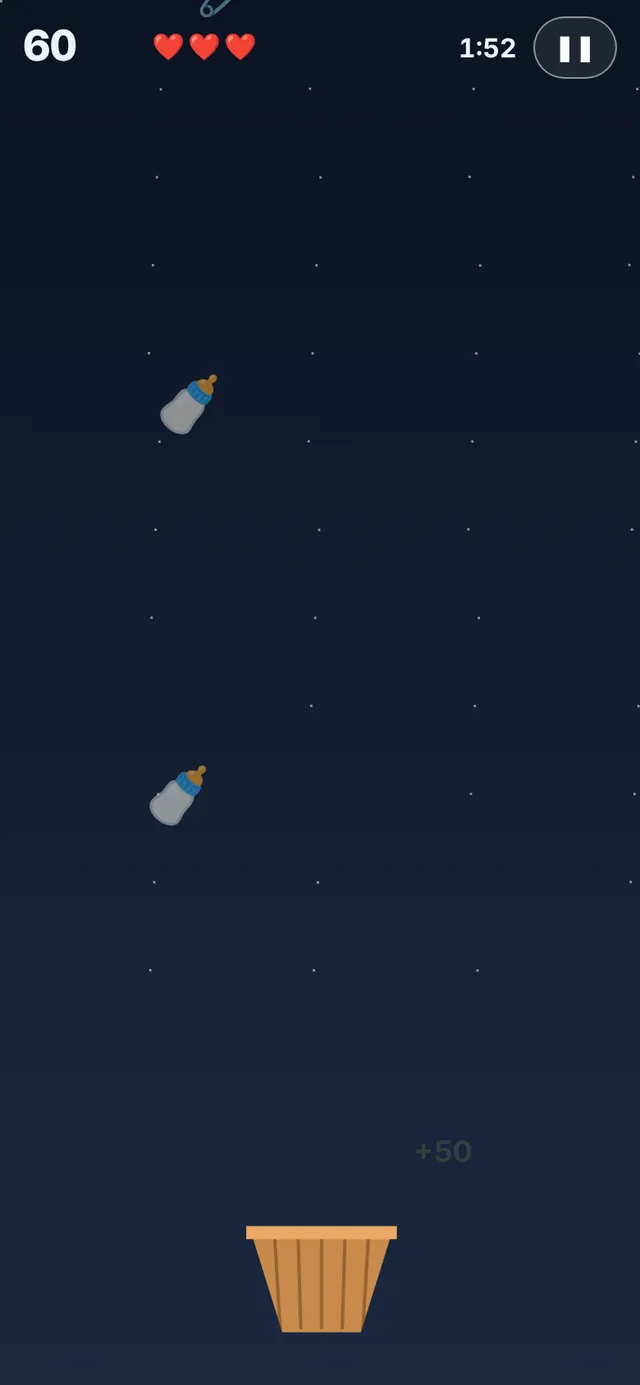
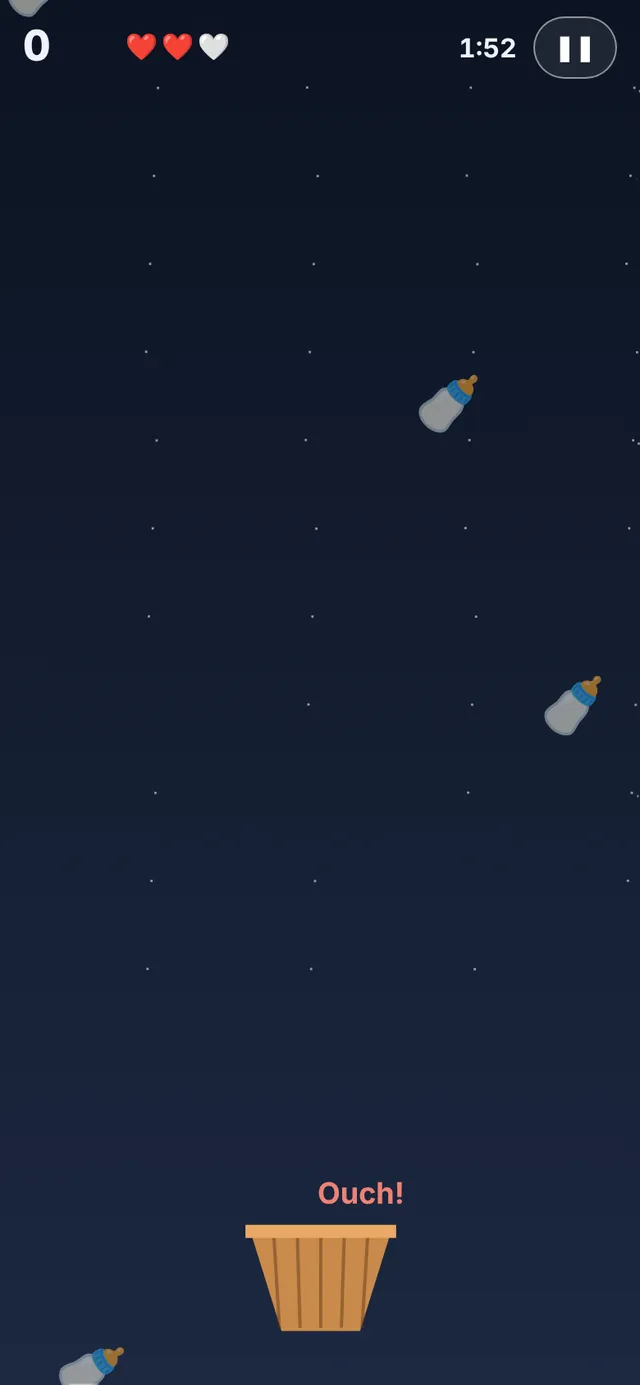
Overview: only real app screenshots
- The made-up 24-hour feed clock and the diaper-goal chart are removed
- New "Patterns at a glance": the Dashboard's Feeding rhythm chart (a real
  screenshot) and the list of charts in the app, plus the doctor report
- Diaper goals explained in the Diapers feature card (one on the birth day,
  rising through Day 5, then your own goal)
- to_webp.py only writes screenshots the overview or README use

Claude-Session: https://claude.ai/code/session_01C2LP9XX3HMhgrsmSLqk1xr

diff --git a/docs/overview.html b/docs/overview.html
@@ -9,7 +9,7 @@
 <link rel="stylesheet" href="https://fonts.googleapis.com/css2?family=Bricolage+Grotesque:opsz,wght@12..96,500;12..96,700;12..96,800&family=Figtree:wght@400;500;600;700&family=JetBrains+Mono:wght@500;700&display=swap">
 <style>
 /* Layout: a warm daytime page that settles into a night-blue band (Night shift, Calm), then returns to day.
-   The signature piece is a 24-hour feed clock for one example day. Colors come from the app itself. */
+   Every picture is a real screenshot from the app, with example data. Colors come from the app itself. */
 :root{
   --bg:#f6f1ea; --panel:#fffaf4; --panel2:#efe6da; --ink:#2b2420; --muted:#76685d; --line:#e4d8ca;
   --accent:#d0683a; --accent-ink:#b5532a; --accent-soft:#f6dccd;
@@ -86,15 +86,12 @@ a:focus-visible,button:focus-visible{outline:3px solid var(--accent); outline-of
 .tag{display:inline-flex; align-items:center; gap:6px; padding:6px 10px; border-radius:10px; background:var(--panel2); font-weight:600}
 .tag.b{color:var(--bottle)} .tag.p{color:var(--pump)} .tag.w{color:var(--wet)} .tag.s{color:var(--stool)} .tag.a{color:var(--accent-ink)} .tag.v{color:var(--sun)}
 
-/* feed clock */
-.clock-grid{display:grid; grid-template-columns:minmax(0,1fr) minmax(0,1fr); gap:clamp(28px,5vw,64px); align-items:center}
-.clock{width:100%; max-width:520px; justify-self:center}
-.clock svg{width:100%; height:auto; display:block}
-.stats{display:grid; grid-template-columns:repeat(2,minmax(0,1fr)); gap:1px; background:var(--line); border:1px solid var(--line); border-radius:18px; overflow:hidden}
-.stat{background:var(--panel); padding:18px 20px; display:grid; gap:4px}
-.stat .v{font:800 34px/1 var(--display); letter-spacing:-.02em; font-variant-numeric:tabular-nums}
-.stat .v small{font:600 15px var(--body); color:var(--muted); margin-left:3px}
-.stat .k{font-size:13px; color:var(--muted)}
+/* patterns (the Dashboard's charts) */
+.pat-grid{display:grid; grid-template-columns:auto minmax(0,1fr); gap:clamp(28px,5vw,72px); align-items:center}
+.pat-phone{--w:clamp(220px,24vw,300px)}
+.pat-list{list-style:none; margin:0; padding:0; display:grid; grid-template-columns:repeat(2,minmax(0,1fr)); gap:12px}
+.pat-list li{background:var(--panel); border:1px solid var(--line); border-radius:14px; padding:12px 14px; color:var(--muted); font-size:14px}
+.pat-list b{display:block; color:var(--ink); font-size:15px; font-weight:600; margin-bottom:2px}
 .legend{display:flex; flex-wrap:wrap; gap:8px 16px; margin-top:16px; font-size:13px; color:var(--muted)}
 .legend span{display:inline-flex; align-items:center; gap:7px}
 .legend i{width:12px; height:12px; border-radius:3px; display:inline-block}
@@ -136,11 +133,6 @@ a:focus-visible,button:focus-visible{outline:3px solid var(--accent); outline-of
 .sounds{display:flex; flex-wrap:wrap; gap:8px; margin-top:20px}
 .sounds span{font:600 13px/1 var(--body); padding:9px 13px; border-radius:999px; border:1px solid var(--night-line); color:var(--night-ink)}
 
-/* goals chart */
-.goal-grid{display:grid; grid-template-columns:minmax(0,1fr) minmax(0,1.1fr); gap:clamp(28px,5vw,64px); align-items:center}
-.chart{background:var(--panel); border:1px solid var(--line); border-radius:20px; padding:22px 20px 16px}
-.chart svg{width:100%; height:auto; display:block}
-
 /* family */
 .family-grid{display:grid; grid-template-columns:minmax(0,1fr) minmax(0,1fr); gap:clamp(28px,5vw,64px); align-items:center}
 .key{display:inline-flex; align-items:center; gap:14px; margin-top:22px; padding:14px 18px; border-radius:16px; background:var(--panel); border:1.5px dashed var(--accent)}
@@ -180,7 +172,8 @@ footer .wrap{display:flex; flex-wrap:wrap; gap:12px 28px; justify-content:space-
 footer code{font-family:var(--mono); font-size:13px}
 
 @media (max-width:900px){
-  .hero-grid,.clock-grid,.night-grid,.goal-grid,.family-grid{grid-template-columns:minmax(0,1fr)}
+  .hero-grid,.pat-grid,.night-grid,.family-grid{grid-template-columns:minmax(0,1fr)}
+  .pat-phone{justify-self:center}
   .screens{grid-template-columns:repeat(2,minmax(0,1fr))}
   .facts{grid-template-columns:repeat(2,minmax(0,1fr))}
   .fine{grid-template-columns:minmax(0,1fr)}
@@ -194,7 +187,6 @@ footer code{font-family:var(--mono); font-size:13px}
   .fan .phone{--w:150px}
   .fan .p1{transform:translateX(-62%) rotate(-7deg) translateY(14px)}
   .fan .p3{transform:translateX(62%) rotate(7deg) translateY(14px)}
-  .stats{grid-template-columns:minmax(0,1fr) minmax(0,1fr)}
   .family-shots .phone{--w:44vw}
   .palettes .phone{--w:28vw}
   .themes{grid-template-columns:repeat(2,auto)}
@@ -239,7 +231,7 @@ footer code{font-family:var(--mono); font-size:13px}
   </div>
   <div class="feats">
     <div class="feat"><span class="fi">🍼</span><h3>Feeds, your way</h3><p>Breast with a timer and which side to start on, bottles in mL, and pumping, alone or together. Triple feeding fits on one row.</p></div>
-    <div class="feat"><span class="fi">🧷</span><h3>Diapers with goals</h3><p>Wet and stool on each feed or on their own, with daily goals that grow with your baby's day of life.</p></div>
+    <div class="feat"><span class="fi">🧷</span><h3>Diapers with goals</h3><p>Wet and stool on each feed or on their own. Daily goals follow your baby's day of life: one each on the birth day, rising through Day 5, then your own goal.</p></div>
     <div class="feat"><span class="fi">⚖</span><h3>Weight and growth</h3><p>Visit weights and weighted feeds in grams or lb and oz, charted against birth weight.</p></div>
     <div class="feat"><span class="fi">☀</span><h3>Vitamin D and baths</h3><p>A daily Vitamin D check with streaks, and sponge or tub baths with a note.</p></div>
     <div class="feat"><span class="fi">🌙</span><h3>Night shift</h3><p>A dim screen with huge buttons for one-handed feeds in the dark, in warm, moonlight, or red colors.</p></div>
@@ -250,24 +242,23 @@ footer code{font-family:var(--mono); font-size:13px}
   </div>
 </section>
 
-<section class="wrap" id="day" style="padding-top:0">
-  <div class="clock-grid">
-    <div class="clock" id="clock" aria-label="24-hour clock of the example day's feeds"></div>
+<section class="wrap" id="patterns" style="padding-top:0">
+  <div class="pat-grid">
+    <div class="phone pat-phone"><img src="screenshots/rhythm.webp" alt="The Dashboard's Feeding rhythm chart, enlarged, with one day's details: feeds, bottle, pumped, diapers, Vitamin D, gaps, and nursing time"></div>
     <div>
-      <div class="sec-head" style="margin-bottom:28px">
-        <p class="eyebrow">One day, at a glance</p>
-        <h2>Day 11, around the clock.</h2>
-        <p class="lede">Each feed gets two bars on the same scale: the bottle top-up and what was pumped. Dots outside the ring mark diapers. The shaded part is night, 8pm to 6am.</p>
+      <div class="sec-head" style="margin-bottom:24px">
+        <p class="eyebrow">Patterns at a glance</p>
+        <h2>The answers to the pediatrician's questions.</h2>
+        <p class="lede">Every chart on the Dashboard opens big. Tap a day or a single feed to see everything about it: feeds, bottle and pumped totals, diapers against the goals, Vitamin D, the longest stretch, and nursing time on each side.</p>
       </div>
-      <div class="stats" id="stats"></div>
-      <div class="legend">
-        <span><i style="background:var(--bottle)"></i>Bottle mL</span>
-        <span><i style="background:var(--pump)"></i>Pumped mL</span>
-        <span><i style="background:var(--wet);border-radius:50%"></i>Wet</span>
-        <span><i style="background:var(--stool);border-radius:50%"></i>Stool</span>
-        <span><i style="background:var(--sun);border-radius:50%"></i>Vitamin D</span>
-      </div>
-      <p class="note">Example data for a made-up baby, Juniper. Goals shown are Cradle's defaults, not medical guidance.</p>
+      <ul class="pat-list">
+        <li><b>This day by feed</b>each bottle and pump, with your per-feed target</li>
+        <li><b>Daily volume</b>bottle and pumped totals, day by day</li>
+        <li><b>Daily diapers</b>wet and stool against the day-of-life goals</li>
+        <li><b>Longest stretch</b>the biggest gap between feeds each day</li>
+        <li><b>Feeding rhythm</b>when feeds happen across the week</li>
+        <li><b>🩺 Doctor report</b>all of it on one printable page</li>
+      </ul>
     </div>
   </div>
 </section>
@@ -323,17 +314,6 @@ footer code{font-family:var(--mono); font-size:13px}
         <div class="sounds"><span>Spa music</span><span>Ocean</span><span>Rain</span><span>White noise</span></div>
       </div>
     </div>
-  </div>
-</section>
-
-<section class="wrap" id="goals">
-  <div class="goal-grid">
-    <div class="sec-head" style="margin-bottom:0">
-      <p class="eyebrow">Goals that grow with the baby</p>
-      <h2>Diaper goals follow the day of life.</h2>
-      <p class="lede">The birth day counts as Day 0. Goals climb one a day through Day 5, then hold at four of each. Every number can be changed in Settings to match what your care team tells you.</p>
-    </div>
-    <div class="chart" id="goalChart" aria-label="Chart of daily wet and stool diaper goals by day of life"></div>
   </div>
 </section>
 
@@ -455,66 +435,10 @@ footer code{font-family:var(--mono); font-size:13px}
 
 <script>
 (function(){
-  // Example day: Day 11 for the made-up baby in the screenshots
-  const feeds=[{"t":"01:50","s":"L","m":28,"b":49,"p":75,"w":true,"st":true,"v":false},{"t":"04:35","s":"L+R","m":22,"b":50,"p":70,"w":true,"st":false,"v":false},{"t":"07:05","s":"L+R","m":28,"b":49,"p":75,"w":false,"st":true,"v":true},{"t":"09:35","s":"L+R","m":12,"b":44,"p":70,"w":true,"st":true,"v":false},{"t":"12:05","s":"L","m":15,"b":44,"p":70,"w":true,"st":false,"v":false},{"t":"14:35","s":"L+R","m":18,"b":50,"p":70,"w":true,"st":false,"v":false},{"t":"17:45","s":"L+R","m":22,"b":49,"p":60,"w":true,"st":false,"v":false},{"t":"20:30","s":"L+R","m":15,"b":49,"p":70,"w":false,"st":true,"v":false},{"t":"23:50","s":"L+R","m":28,"b":49,"p":70,"w":false,"st":true,"v":false}];
   const NS='http://www.w3.org/2000/svg';
   const el=(n,a,p)=>{const e=document.createElementNS(NS,n);for(const k in a)e.setAttribute(k,a[k]);if(p)p.appendChild(e);return e};
   const mins=t=>{const[h,m]=t.split(':').map(Number);return h*60+m};
   const fmt=m=>{let h=Math.floor(m/60)%24,mm=m%60,ap=h<12?'am':'pm';h=h%12||12;return h+(mm?':'+String(mm).padStart(2,'0'):'')+ap};
-
-  // ---- 24-hour feed clock
-  const S=520,C=S/2,R0=92,RB=196,svg=el('svg',{viewBox:`0 0 ${S} ${S}`,role:'img'});
-  const ang=m=>(m/1440)*Math.PI*2-Math.PI/2, pt=(m,r)=>[C+r*Math.cos(ang(m)),C+r*Math.sin(ang(m))];
-  const arc=(m1,m2,r1,r2)=>{const [a,b]=pt(m1,r2),[c,d]=pt(m2,r2),[e,f]=pt(m2,r1),[g,h]=pt(m1,r1),L=(m2-m1)>720?1:0;
-    return `M${a} ${b}A${r2} ${r2} 0 ${L} 1 ${c} ${d}L${e} ${f}A${r1} ${r1} 0 ${L} 0 ${g} ${h}Z`};
-  el('circle',{cx:C,cy:C,r:228,fill:'var(--panel)',stroke:'var(--line)'},svg);
-  // night shading 8pm to 6am
-  el('path',{d:arc(1200,1440,R0-8,226),fill:'var(--night)',opacity:.1},svg);
-  el('path',{d:arc(0,360,R0-8,226),fill:'var(--night)',opacity:.1},svg);
-  // one mL scale for bottle and pump; rings at 40 and 80 mL
-  const scale=v=>R0+(RB-R0)*(v/80);
-  [40,80].forEach(v=>{el('circle',{cx:C,cy:C,r:scale(v),fill:'none',stroke:'var(--line)','stroke-dasharray':'3 5'},svg);
-    const[x,y]=pt(1440*0.125,scale(v));const t=el('text',{x:x+4,y:y-4,'font-size':10,fill:'var(--muted)','font-family':'JetBrains Mono, monospace'},svg);t.textContent=v+' mL'});
-  // hour ticks + labels
-  for(let h=0;h<24;h++){const m=h*60,[x1,y1]=pt(m,222),[x2,y2]=pt(m,h%6?216:208);el('line',{x1,y1,x2,y2,stroke:'var(--muted)','stroke-width':h%6?1:2,opacity:h%6?.5:.9},svg);
-    if(h%3===0){const[x,y]=pt(m,R0-24);const t=el('text',{x,y,'text-anchor':'middle','dominant-baseline':'central','font-size':h%6?11:13,'font-weight':h%6?500:700,fill:'var(--muted)','font-family':'Figtree, system-ui, sans-serif'},svg);t.textContent=h===0?'12am':h===12?'12pm':(h%12)+(h<12?'a':'p')}}
-  // feeds
-  feeds.forEach(f=>{const m=mins(f.t);
-    const bar=(mm,v,c)=>{const[x1,y1]=pt(mm,R0),[x2,y2]=pt(mm,scale(v));el('line',{x1,y1,x2,y2,stroke:c,'stroke-width':7,'stroke-linecap':'round'},svg)};
-    bar(m-9,f.b,'var(--bottle)');bar(m+9,f.p,'var(--pump)');
-    let r=RB+16;
-    if(f.w){const[x,y]=pt(m-12,r);el('circle',{cx:x,cy:y,r:5,fill:'var(--wet)'},svg)}
-    if(f.st){const[x,y]=pt(m+12,r);el('circle',{cx:x,cy:y,r:5,fill:'var(--stool)'},svg)}
-    if(f.v){const[x,y]=pt(m,R0-48);el('circle',{cx:x,cy:y,r:6,fill:'var(--sun)'},svg)}
-    const tt=el('title',{},svg);tt.textContent=`${fmt(m)}: ${f.s}, ${f.m} min, bottle ${f.b} mL, pumped ${f.p} mL`;
-  });
-  // center
-  el('circle',{cx:C,cy:C,r:R0-44,fill:'var(--bg)',stroke:'var(--line)'},svg);
-  const t1=el('text',{x:C,y:C-6,'text-anchor':'middle','font-size':44,'font-weight':800,fill:'var(--ink)','font-family':'Bricolage Grotesque, system-ui, sans-serif'},svg);t1.textContent=feeds.length;
-  const t2=el('text',{x:C,y:C+20,'text-anchor':'middle','font-size':13,fill:'var(--muted)','font-family':'Figtree, system-ui, sans-serif'},svg);t2.textContent='feeds';
-  document.getElementById('clock').appendChild(svg);
-
-  // ---- stats, computed from the same data
-  const sum=k=>feeds.reduce((a,f)=>a+(typeof f[k]==='number'?f[k]:(f[k]?1:0)),0);
-  const ts=feeds.map(f=>mins(f.t));let longest=0,lf='';for(let i=1;i<ts.length;i++){const g=ts[i]-ts[i-1];if(g>longest){longest=g;lf=fmt(ts[i-1])+' to '+fmt(ts[i])}}
-  const avgGap=Math.round((ts[ts.length-1]-ts[0])/(ts.length-1));
-  const hm=m=>Math.floor(m/60)+'h '+String(m%60).padStart(2,'0')+'m';
-  const stats=[[sum('b'),'mL','bottle top-ups'],[sum('p'),'mL','pumped'],[sum('w')+' / '+sum('st'),'','wet / stool (goal 4 / 4)'],[hm(avgGap),'','average time between feeds'],[hm(longest),'','longest stretch, '+lf],[Math.round(sum('m')/60*10)/10,'h','nursing, Vitamin D at '+fmt(mins(feeds.find(f=>f.v).t))]];
-  document.getElementById('stats').innerHTML=stats.map(([v,u,k])=>`<div class="stat"><span class="v">${v}${u?`<small>${u}</small>`:''}</span><span class="k">${k}</span></div>`).join('');
-
-  // ---- diaper goal chart (Day 0 = 1, days 1-5 = day number, then 4)
-  const goal=d=>d===0?1:(d<=5?d:4), days=[0,1,2,3,4,5,6,7,8,9];
-  const W=560,H=260,L=36,B=36,T=18,Rr=10,bw=(W-L-Rr)/days.length,ys=v=>H-B-(v/5)*(H-B-T);
-  const g=el('svg',{viewBox:`0 0 ${W} ${H}`,role:'img'});
-  [0,1,2,3,4,5].forEach(v=>{el('line',{x1:L,x2:W-Rr,y1:ys(v),y2:ys(v),stroke:'var(--line)'},g);const t=el('text',{x:L-10,y:ys(v),'text-anchor':'end','dominant-baseline':'central','font-size':12,fill:'var(--muted)','font-family':'JetBrains Mono, monospace'},g);t.textContent=v});
-  days.forEach((d,i)=>{const x=L+i*bw,v=goal(d),w=(bw-10)/2;
-    el('rect',{x:x+4,y:ys(v),width:w,height:ys(0)-ys(v),rx:4,fill:'var(--wet)'},g);
-    el('rect',{x:x+6+w,y:ys(v),width:w,height:ys(0)-ys(v),rx:4,fill:'var(--stool)'},g);
-    const t=el('text',{x:x+bw/2,y:H-B+20,'text-anchor':'middle','font-size':12,fill:d===0?'var(--accent-ink)':'var(--muted)','font-weight':d===0?700:500,'font-family':'Figtree, system-ui, sans-serif'},g);t.textContent=d===0?'Day 0':d;
-    const tl=el('title',{},g);tl.textContent=`Day ${d}: ${v} wet, ${v} stool`;
-  });
-  const lg=el('text',{x:W-Rr,y:T-2,'text-anchor':'end','font-size':12,fill:'var(--muted)','font-family':'Figtree, system-ui, sans-serif'},g);lg.textContent='Wet (blue) and stool (amber) per day; Day 6 on: at least 4';
-  document.getElementById('goalChart').appendChild(g);
 
   // ---- a few stars in the night band
   const st=document.getElementById('stars');st.setAttribute('viewBox','0 0 1000 600');st.setAttribute('preserveAspectRatio','xMidYMid slice');

diff --git a/tools/screenshots/to_webp.py b/tools/screenshots/to_webp.py
@@ -6,8 +6,11 @@ from PIL import Image
 
 here = os.path.dirname(os.path.abspath(__file__))
 repo = os.path.abspath(os.path.join(here, '..', '..'))
+used = open(os.path.join(repo, 'docs', 'overview.html')).read() + open(os.path.join(repo, 'README.md')).read()
 for src in sorted(glob.glob(os.path.join(repo, 'tests', 'out', 'shots', '*.png'))):
     name = os.path.splitext(os.path.basename(src))[0]
+    if 'screenshots/' + name + '.webp' not in used:
+        continue  # only the pictures the overview or README show
     im = Image.open(src).convert('RGB')
     w = 640
     im = im.resize((w, round(im.height * w / im.width)), Image.LANCZOS)

diff --git a/CHANGELOG.md b/CHANGELOG.md
@@ -7,6 +7,7 @@ No change to the app.
 - A "What's inside" grid of nine features replaces the triple-feeding explainer (triple feeding is one line under Feeds, your way)
 - The Fun center picture stacks all three games, Stork Flight on top
 - New screenshots for Bottle Catch, Stork Flight, and Achievements (53 badges); `tools/screenshots/take.mjs` retakes them
+- Every picture is now a real app screenshot: the made-up 24-hour feed clock and diaper-goal chart are gone, replaced by "Patterns at a glance" with the Dashboard's Feeding rhythm chart and a list of the charts in the app
 
 ## v1.24
 
